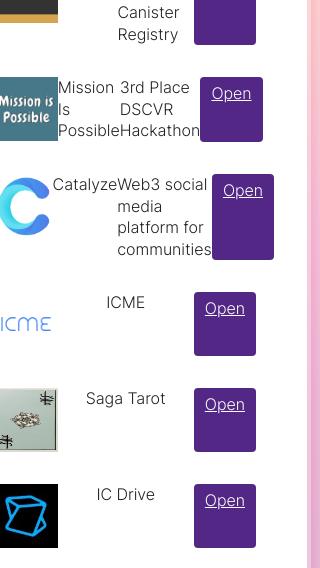
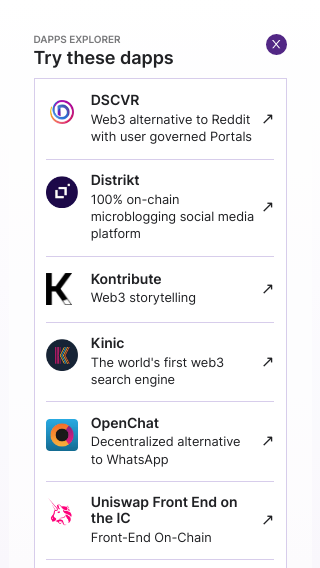
Design dapps explorer page (#1425)
* Don't use modal for dapps explorer

* 🤖 Selenium screenshots auto-update

* apply action-list style to dapps list

* 🤖 Selenium screenshots auto-update

* add close icons

* deconstruct dapps for better readablity

* 🤖 Selenium screenshots auto-update

* adds aria label to copy

* Update src/frontend/src/flows/dappsExplorer/index.ts

* Update src/frontend/src/flows/dappsExplorer/index.ts

* use more explicit copy key

---------

diff --git a/src/frontend/src/flows/dappsExplorer/index.ts b/src/frontend/src/flows/dappsExplorer/index.ts
@@ -1,6 +1,8 @@
 import { html, TemplateResult } from "lit-html";
-import { createModal } from "../../components/modal";
+import { closeIcon } from "../../components/icons";
+import { mainWindow } from "../../components/mainWindow";
 import { I18n } from "../../i18n";
+import { renderPage } from "../../utils/lit-html";
 
 // The list of dapps. This is derived from https://github.com/dfinity/portal:
 // * Only dapps using II are used
@@ -11,20 +13,41 @@ import dapps from "./dapps.json";
 import copyJson from "./copy.json";
 
 /* Template for the explorer containing all dapps */
-const dappsExplorerTemplate = ({ i18n }: { i18n: I18n }) => {
+const dappsExplorerTemplate = ({
+  i18n,
+  back,
+}: {
+  i18n: I18n;
+  back: () => void;
+}) => {
   const copy = i18n.i18n(copyJson);
+  const staticCopy = i18n.staticLang(copyJson);
 
   const pageContent = html`
-    <p>${copy.dapps_explorer}</p>
-    <h1>${copy.try_these_dapps}</h1>
-    <hr />
-    <ul>
-      ${dapps.map((dapp) => dappTemplate(dapp))}
-    </ul>
+    <button
+      class="c-card__close"
+      aria-label=${staticCopy.back_to_the_previous_page}
+      @click=${() => back()}
+    >
+      ${closeIcon}
+    </button>
+    <hgroup>
+      <h2 class="t-title t-title--discrete">${copy.dapps_explorer}</h2>
+      <h1 class="t-title">${copy.try_these_dapps}</h1>
+    </hgroup>
+    <div class="c-action-list">${dapps.map((dapp) => dappTemplate(dapp))}</div>
   `;
 
-  return pageContent;
+  const wrappedPageContent = mainWindow({
+    showLogo: false,
+    showFooter: false,
+    slot: pageContent,
+  });
+
+  return wrappedPageContent;
 };
+
+export const dappsExplorerPage = renderPage(dappsExplorerTemplate);
 
 // Infer the type of an array's elements
 type ElementOf<Arr> = Arr extends readonly (infer ElementOf)[]
@@ -32,30 +55,41 @@ type ElementOf<Arr> = Arr extends readonly (infer ElementOf)[]
   : "argument is not an array";
 
 /* Template for a single dapp */
-const dappTemplate = (dapp: ElementOf<typeof dapps>): TemplateResult => {
+const dappTemplate = ({
+  link,
+  logo,
+  name,
+  oneLiner,
+}: ElementOf<typeof dapps>): TemplateResult => {
   return html`
-    <li style="display: flex; justify-content: space-between; padding: 1em;">
-      <img
-        height="64"
-        width="64"
-        src=${dapp.logo.replace("/img/showcase/", "/icons/")}
-        alt=${dapp.name}
-      />
-      <h1>${dapp.name}</h1>
-      ${dapp.oneLiner !== undefined ? html`<p>${dapp.oneLiner}</p>` : undefined}
-      <a
-        href=${dapp.link}
-        target="_blank"
-        rel="noopener noreferrer"
-        class="c-button c-button--minimal"
-        >Open</a
-      >
-    </li>
+    <a
+      href=${link}
+      target="_blank"
+      class="c-action-list__item"
+      rel="noopener noreferrer"
+    >
+      <div class="c-action-list__icon" aria-hidden="true">
+        <img
+          src=${logo.replace("/img/showcase/", "/icons/")}
+          alt=${name}
+          loading="lazy"
+        />
+      </div>
+      <div class="c-action-list__label c-action-list__label--stacked">
+        <h3 class="t-title t-title--list">${name}</h3>
+        ${oneLiner !== undefined
+          ? html`<p class="t-weak">${oneLiner}</p>`
+          : undefined}
+      </div>
+      <span class="c-action-list__action"> ↗ </span>
+    </a>
   `;
 };
 
 /* Show a list of dapps known to use Internet Identity, in a closable modal */
-export const dappsExplorer = (): void => {
+export const dappsExplorer = (): Promise<void> => {
   const i18n = new I18n();
-  createModal({ slot: dappsExplorerTemplate({ i18n }) });
+  return new Promise((resolve) =>
+    dappsExplorerPage({ i18n, back: () => resolve() })
+  );
 };

diff --git a/src/frontend/src/showcase.ts b/src/frontend/src/showcase.ts
@@ -26,7 +26,7 @@ import { deviceRegistrationDisabledInfoPage } from "./flows/addDevice/welcomeVie
 import { showVerificationCodePage } from "./flows/addDevice/welcomeView/showVerificationCode";
 import { authnTemplateAuthorize } from "./flows/authorize";
 import { compatibilityNotice } from "./flows/compatibilityNotice";
-import { dappsExplorer } from "./flows/dappsExplorer";
+import { dappsExplorerPage } from "./flows/dappsExplorer";
 import { authnTemplateManage, displayManagePage } from "./flows/manage";
 import { chooseRecoveryMechanismPage } from "./flows/recovery/chooseRecoveryMechanism";
 import {
@@ -289,6 +289,9 @@ const iiPages: Record<string, () => void> = {
       addRecoveryKey: () => {
         console.log("add recovery key");
       },
+      exploreDapps: () => {
+        console.log("explore dapps");
+      },
     }),
   displayManageSingle: () =>
     displayManagePage({
@@ -309,6 +312,9 @@ const iiPages: Record<string, () => void> = {
       },
       addRecoveryKey: () => {
         console.log("add recovery key");
+      },
+      exploreDapps: () => {
+        console.log("explore dapps");
       },
     }),
   chooseDeviceAddFlow: () => chooseDeviceAddFlow(),
@@ -400,7 +406,8 @@ const iiPages: Record<string, () => void> = {
       "Lorem ipsum dolor sit amet, consectetur adipiscing elit. Donec varius tellus id massa lobortis, et luctus nulla consequat. Phasellus lacinia velit non quam placerat imperdiet. In elementum orci sit amet malesuada eleifend. Vestibulum ultricies fringilla lorem sit amet laoreet. Suspendisse aliquet tincidunt risus, sed pellentesque purus porttitor nec."
     );
   },
-  dappsExplorer: () => dappsExplorer(),
+  dappsExplorer: () =>
+    dappsExplorerPage({ i18n, back: () => console.log("back") }),
 };
 
 const showcase: TemplateResult = html`

diff --git a/src/frontend/src/styles/main.css b/src/frontend/src/styles/main.css
@@ -423,6 +423,23 @@ body {
   margin-top: 0.5em;
 }
 
+.t-title--discrete {
+  font-size: 1rem;
+  opacity: 0.6;
+  text-transform: uppercase;
+}
+
+.t-title--discrete + .t-title {
+  margin-top: 0.2em;
+}
+
+.t-title--list {
+  font-size: 1.4rem;
+  font-weight: 600;
+  margin-bottom: 0.25em;
+  margin-top: 0;
+}
+
 .t-lead {
   font-size: 1.6rem;
 }
@@ -735,6 +752,31 @@ a:hover,
   fill: var(--rc-background);
   stroke-width: 3px;
   stroke: var(--rc-error);
+}
+
+.c-card__close {
+  position: absolute;
+  right: var(--rs-card-bezel);
+  top: var(--rs-card-bezel);
+  width: 2.1rem;
+  aspect-ratio: 1;
+  background: var(--rc-button);
+  border-radius: 50%;
+  cursor: pointer;
+}
+
+.c-card__close svg {
+  position: absolute;
+  display: block;
+  width: 60%;
+  height: 60%;
+  top: 50%;
+  left: 50%;
+  transform: translate(-50%, -50%);
+}
+
+.c-card__close svg [fill] {
+  fill: var(--rc-onButton);
 }
 
 .c-card__content {
@@ -1784,6 +1826,27 @@ a:hover,
   padding: calc(var(--rs-button-bezel) * 0.7) calc(var(--rs-button-bezel) * 0.6);
 }
 
+a.c-action-list__item {
+  text-decoration: none;
+  color: var(--rc-text);
+}
+
+.c-action-list__icon {
+  height: 4rem;
+  width: 4rem;
+  flex: 0 0 4rem;
+  position: relative;
+}
+
+.c-action-list__icon img {
+  height: 80%;
+  object-fit: contain;
+  position: absolute;
+  left: 0;
+  top: 50%;
+  transform: translateY(-50%);
+}
+
 .c-action-list__item + .c-action-list__item::before {
   content: "";
   display: block;
@@ -1812,6 +1875,12 @@ a:hover,
 .c-action-list__status {
   display: flex;
   align-items: center;
+}
+
+.c-action-list__label--stacked {
+  flex-direction: column;
+  align-items: flex-start;
+  justify-content: center;
 }
 
 .c-action-list__action {

diff --git a/src/frontend/src/flows/manage/index.ts b/src/frontend/src/flows/manage/index.ts
@@ -112,12 +112,14 @@ const displayManageTemplate = ({
   onAddDevice,
   addRecoveryPhrase,
   addRecoveryKey,
+  exploreDapps,
 }: {
   userNumber: bigint;
   devices: Devices;
   onAddDevice: () => void;
   addRecoveryPhrase: () => void;
   addRecoveryKey: () => void;
+  exploreDapps: () => void;
 }): TemplateResult => {
   // Nudge the user to add a device iff there is one or fewer authenticators and no recoveries
   const warnFewDevices =
@@ -134,7 +136,7 @@ const displayManageTemplate = ({
     </hgroup>
     ${anchorSection(userNumber)}
     <p class="t-paragraph">
-      <button @click=${() => dappsExplorer()} class="c-button">
+      <button @click=${() => exploreDapps()} class="c-button">
         Explore Dapps
       </button>
     </p>
@@ -262,6 +264,10 @@ export const displayManage = (
           return;
         }
         await setupKey({ connection });
+        resolve();
+      },
+      exploreDapps: async () => {
+        await dappsExplorer();
         resolve();
       },
     });
